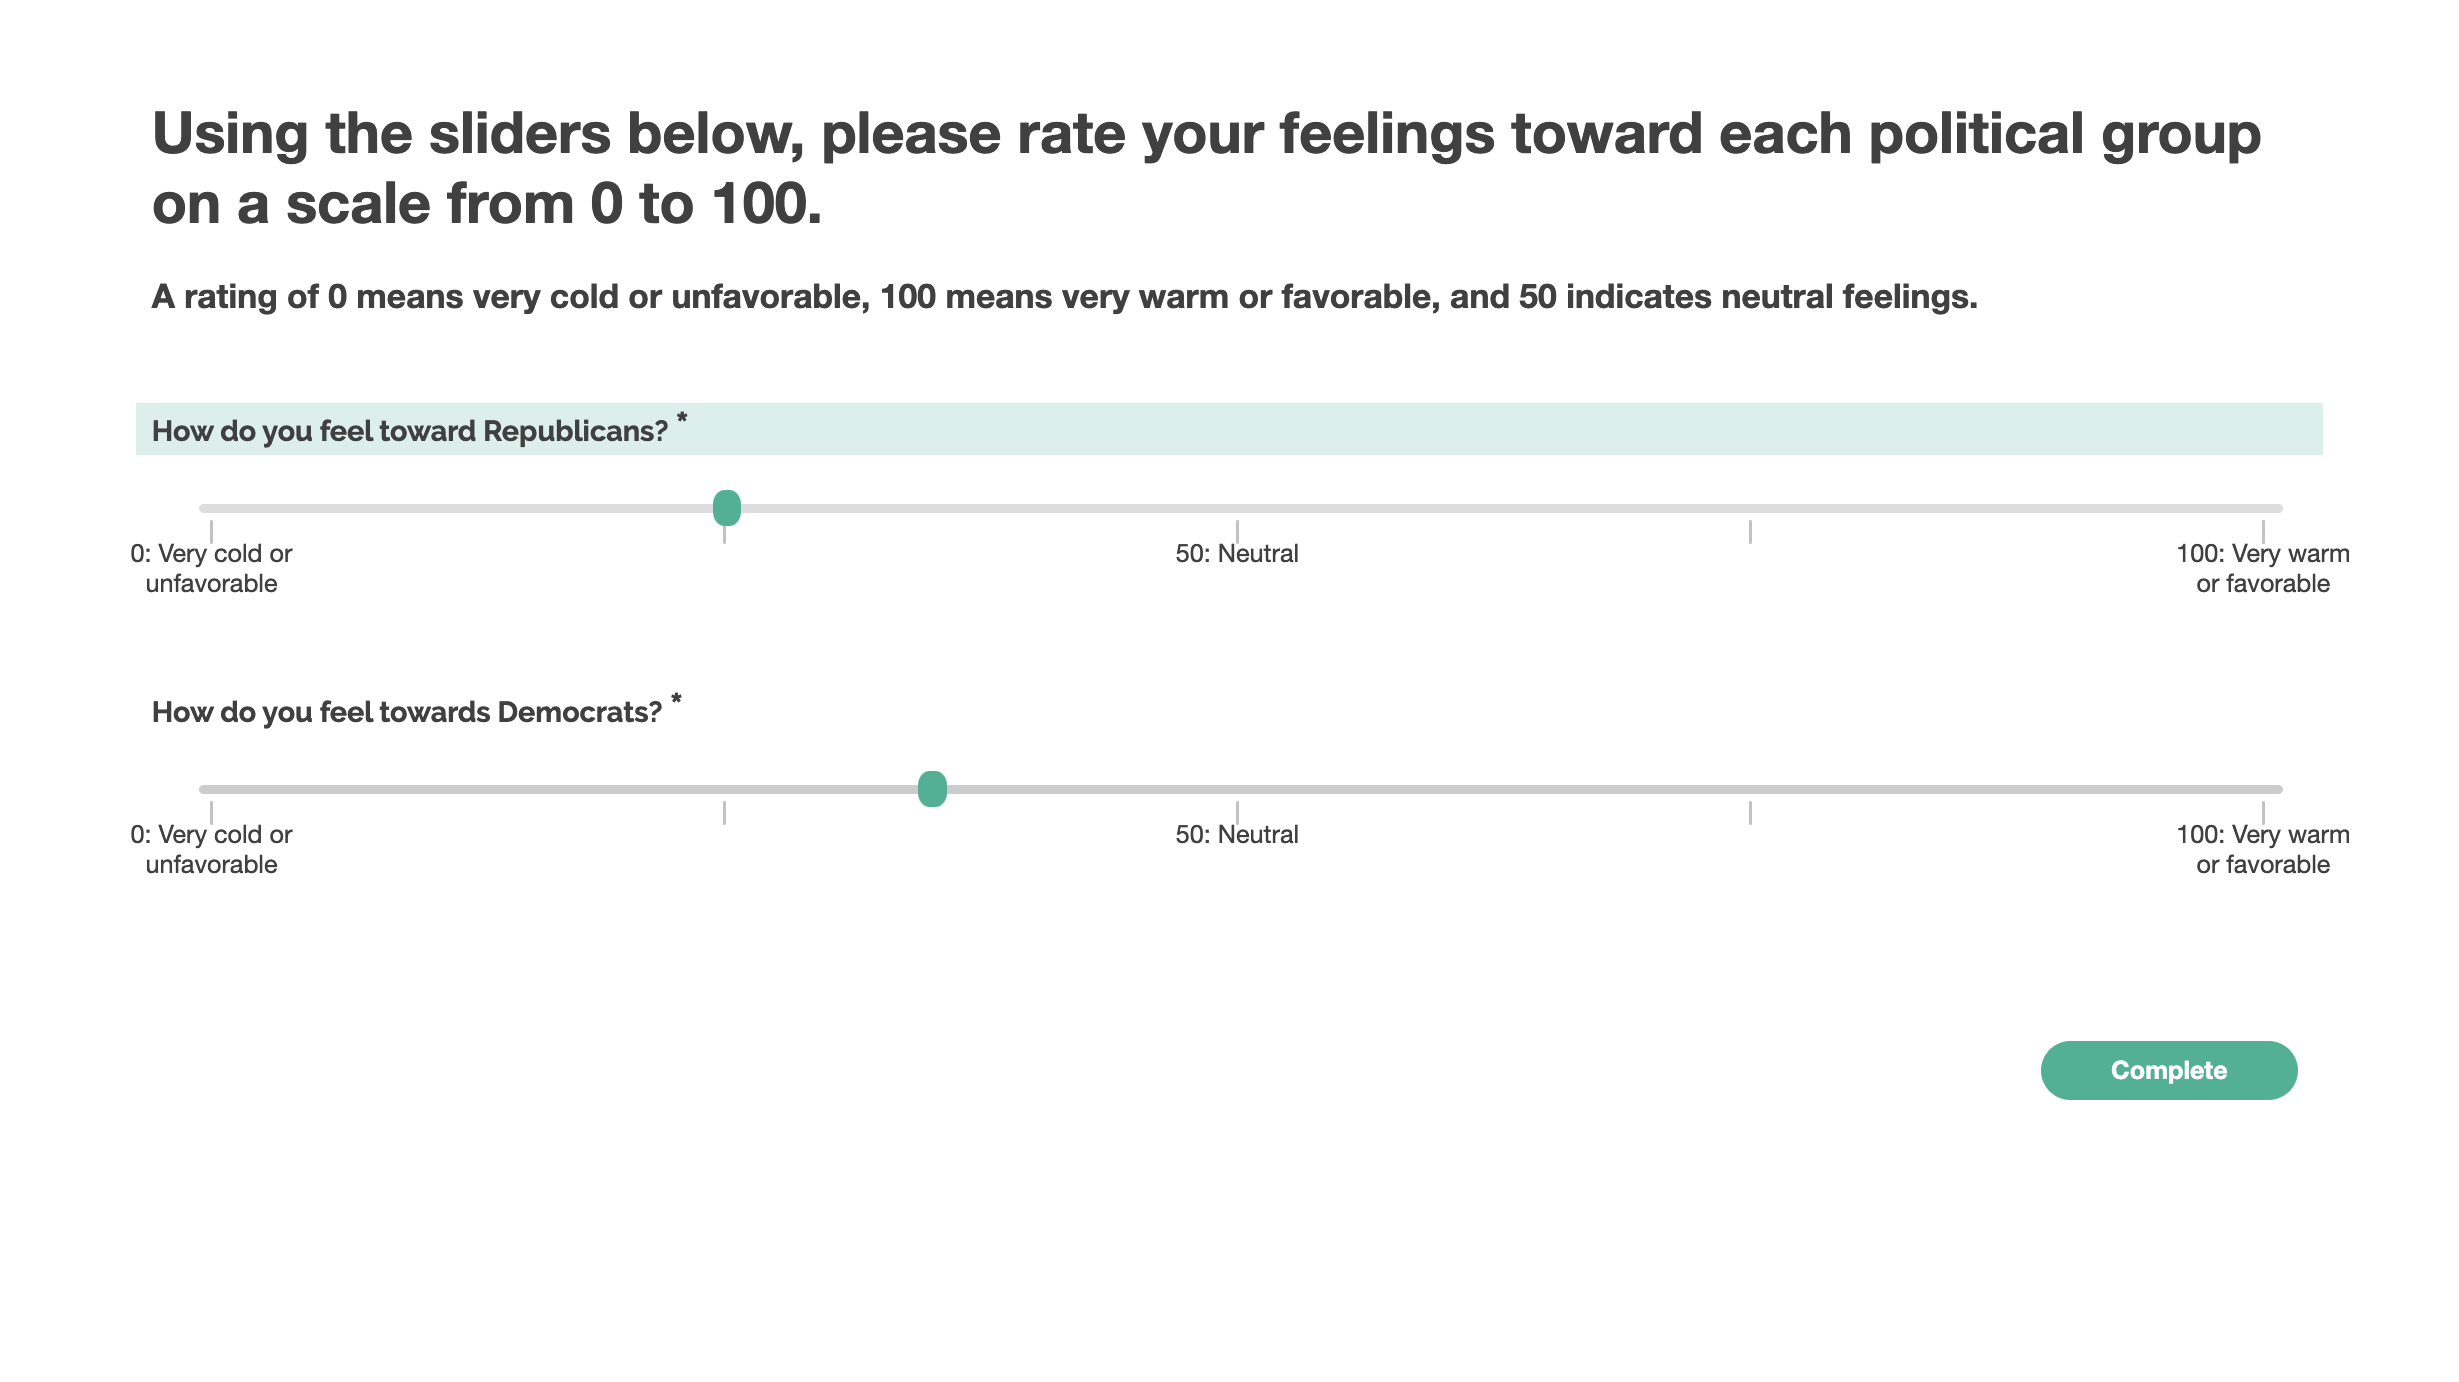
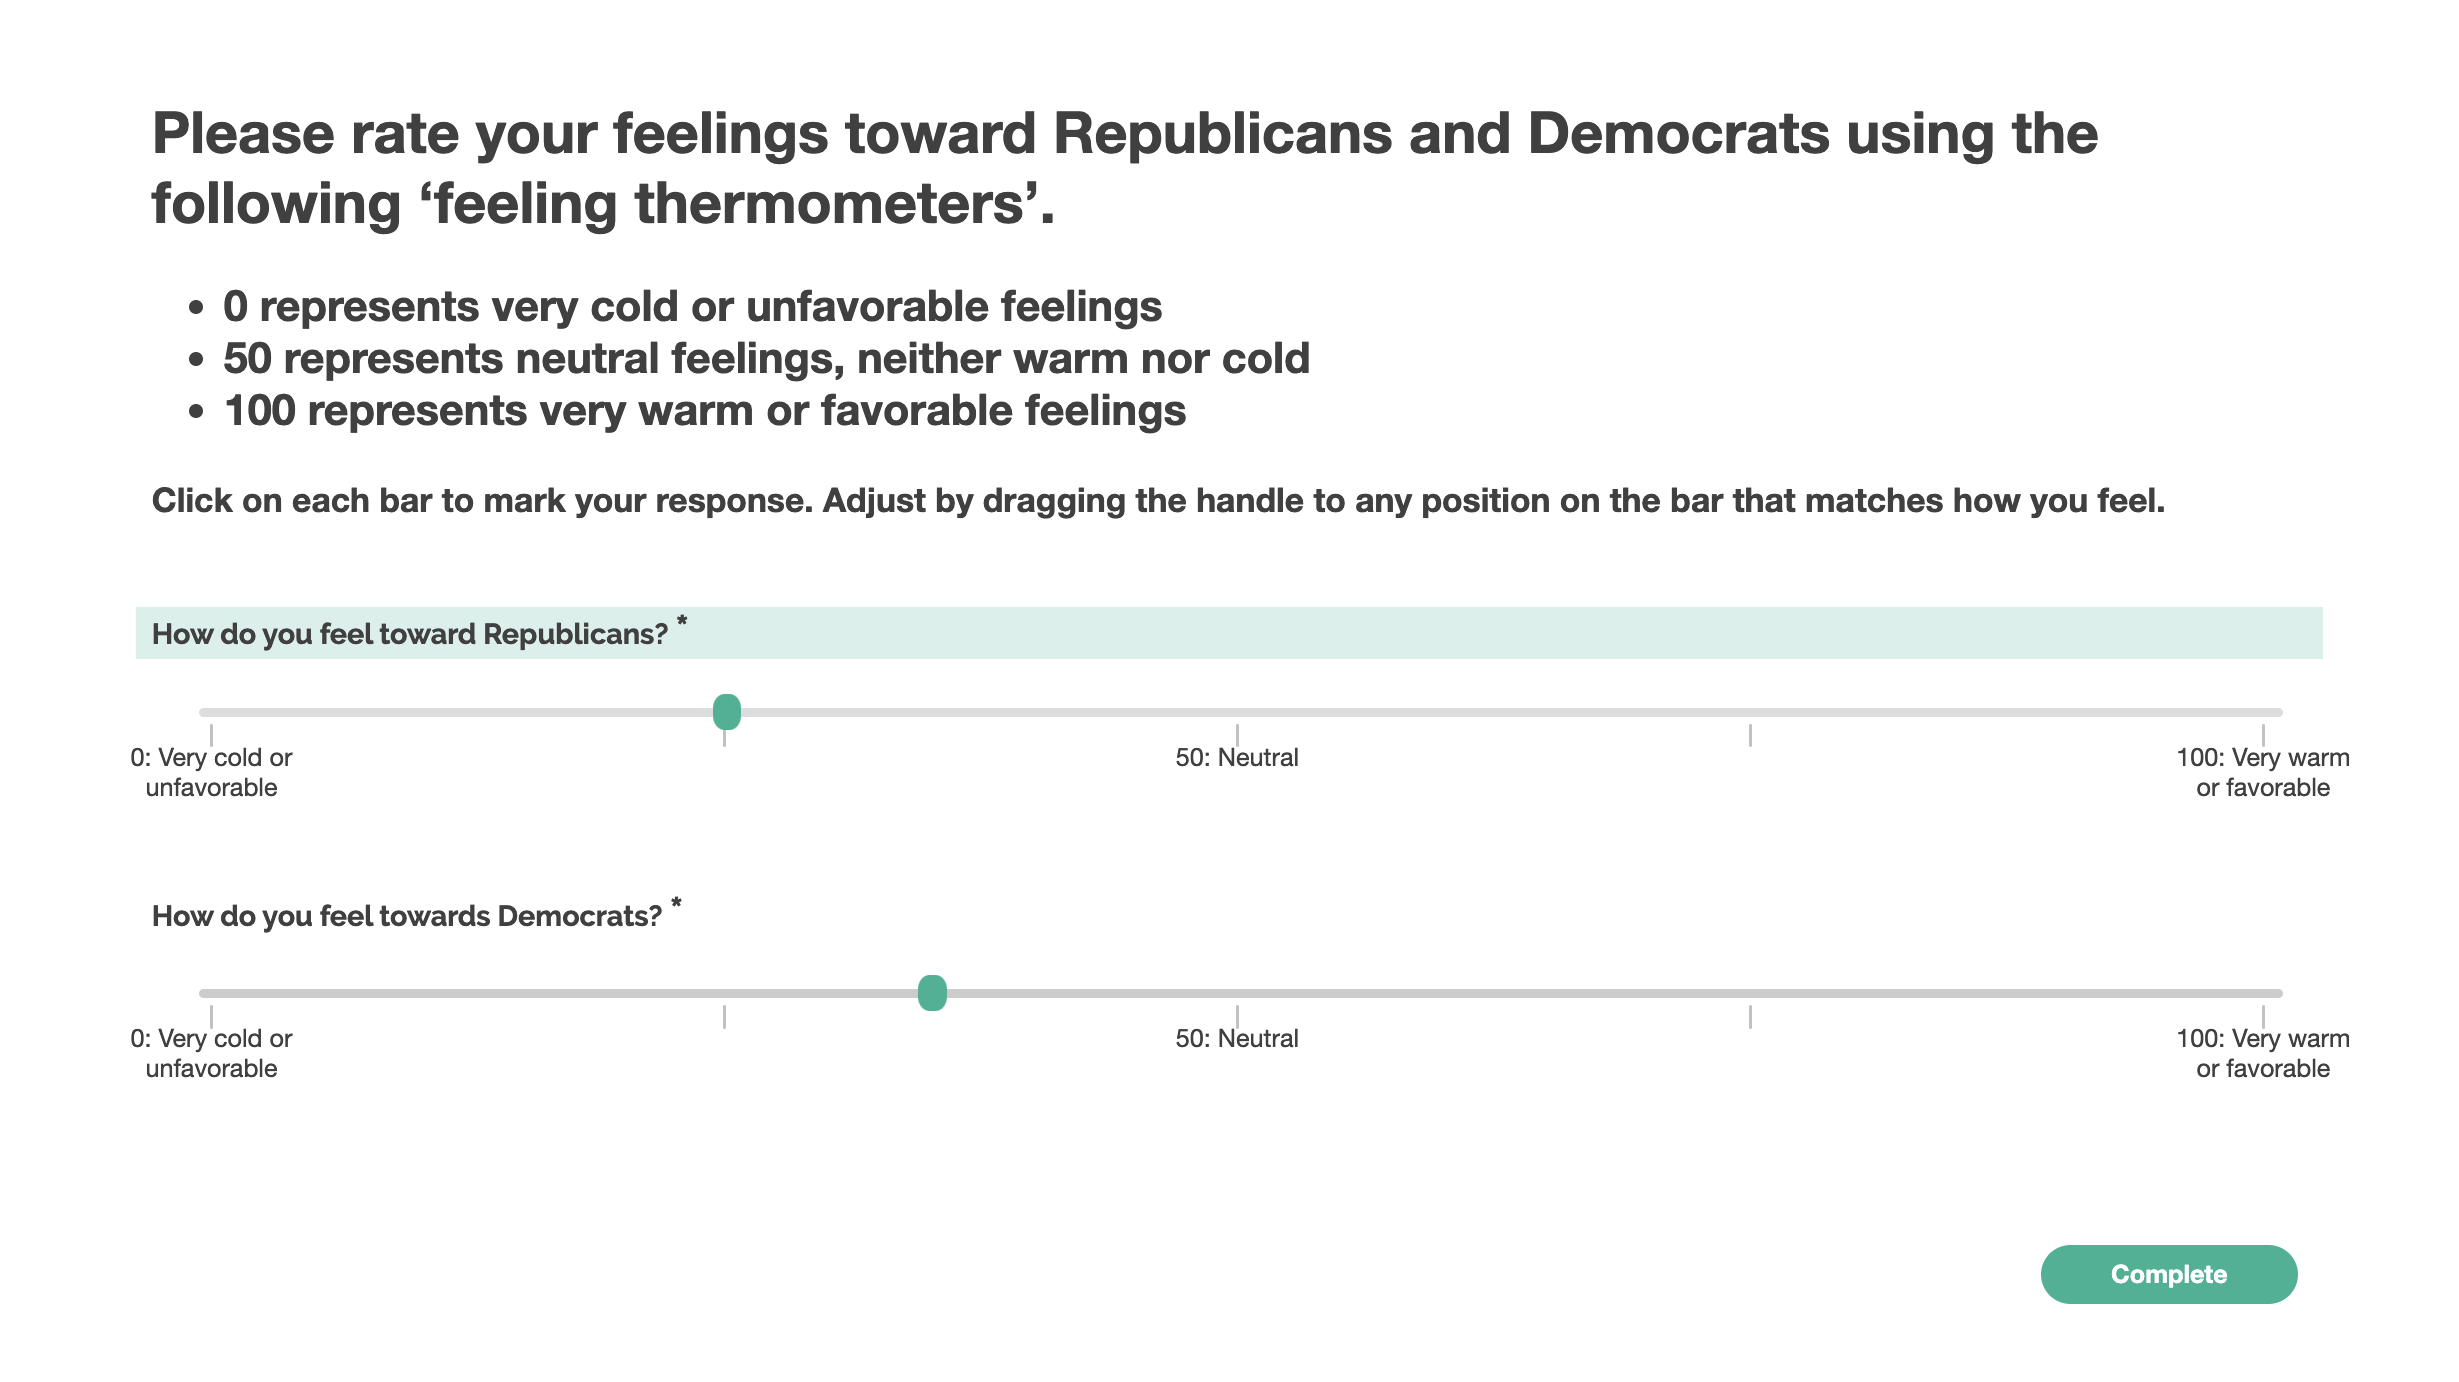
update feeling thermometer text

Changed region(s): [[0.0309, 0.0622, 0.9581, 0.6845], [0.0618, 0.6845, 0.9581, 0.809], [0.8036, 0.9023, 0.9581, 0.9645]]

diff --git a/surveys/partisanFeelingThermometerUS/README.md b/surveys/partisanFeelingThermometerUS/README.md
@@ -2,7 +2,18 @@
 
 This survey aims to gauge the participant's feeling toward the Democratic and Republican Party. The participant will be asked to rate Democrats and Republicans on a scale from 0 to 100. The order of whether question about Democrats or Republicans shows up first is randomized.
 
-### Scores and their meanings
+In designing our survey question, we adapted existing “feeling thermometer” wordings from prominent studies to create a version that balances clarity, brevity, and the need to encourage respondents to use the full scale. Drawing on insights from previous versions, we retained the key elements of the scale—using 0 to represent very cold or unfavorable feelings, 100 for very warm or favorable feelings, and 50 for neutrality. We chose to streamline the language to make the question easy and fast for respondents to read and understand, minimizing cognitive load while ensuring accurate responses. Additionally, we emphasized that respondents should feel free to use any number from 0 to 100, encouraging the use of the full range of the scale. By carefully selecting and refining these elements, we aimed to preserve the original intent of the measurement while improving respondent experience and reducing potential biases.
+
+## Sources
+
+> "We’d like you to rate how you feel towards Republican and Democratic Party voters/Republican and Democratic Party candidates and elected officials/the Democratic and Republican parties on a scale of 0 to 100, which we call a “feeling thermometer.” On this feeling thermometer scale, ratings between 0 and 49 degrees mean that you feel unfavorable and cold (with 0 being the most unfavorable/coldest). Ratings between 51 and 100 degrees mean that you feel favorable and warm (with 100 being the most favorable/warmest). A rating of 50 means you have no feelings one way or the other. How would you rate your feeling toward Republican and Democratic Party voters/Republican and Democratic Party candidates and elected officials/the Democratic and Republican parties?
+> (Druckman, James N., and Matthew S. Levendusky. 2019. “What Do We Measure When We Measure Affective Polarization?” Public Opinion Quarterly 83 (1): 114–22.)"
+
+> "(i) We would like to get your feelings toward both Democrats and Republicans. We would like you to rate them using something we call the feeling thermometer. Ratings between 50 degrees and 100 degrees mean that you feel favorable and warm toward them. Ratings between 0 degrees and 50 degrees mean that you don't feel favorable toward them and that you don't care too much for them. You would rate them at the 50 degree mark if you don't feel particularly warm or cold toward them. [Add graphic] (i.a) How would you rate Republicans? (i.b) How would you rate Democrats? (democratic voters, republican voters, democratic politicians, republican politicians (i) 101-point scale from “Very cold or unfavorable feeling” to “No feeling at all” to “Very warm or favorable feeling”" (Jan G. Voelkel, Michael N. Stagnaro, James Chu, Sophia Pink, Joseph S. Mernyk, Chrystal Redekopp, Matthew Cashman, James N. Druckman, David G. Rand, and Robb Willer. 2021. “Megastudy Identifying Successful Interventions to Strengthen Americans’ Democratic Attitudes.”)
+
+> Please indicate how you feel toward [outgroup] using the scale below. 10 means that you feel very favorably or warm toward them, 0 that you feel very unfavorable or cold, and 5 are neutral. (Kamin, Julia. 2022. “Social Cohesion Impact Measurement (SCIM) Framework Overview.” Civic Health Project. https://docs.google.com/document/d/1_nsLJNgWZVaNSq71PFpAHx7YM488FvTPIPFYWsytwus.)
+
+## Scores and their meanings
 
 - `normRepublicanTemp` and `normDemocratTemp` are participant's feeling toward each party converted to a 0 to 1 scale.
 
